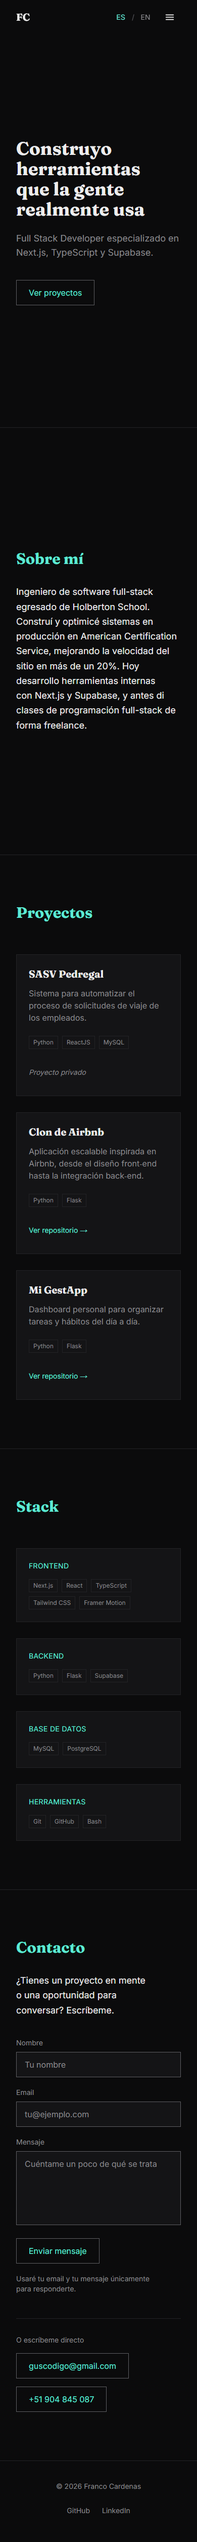
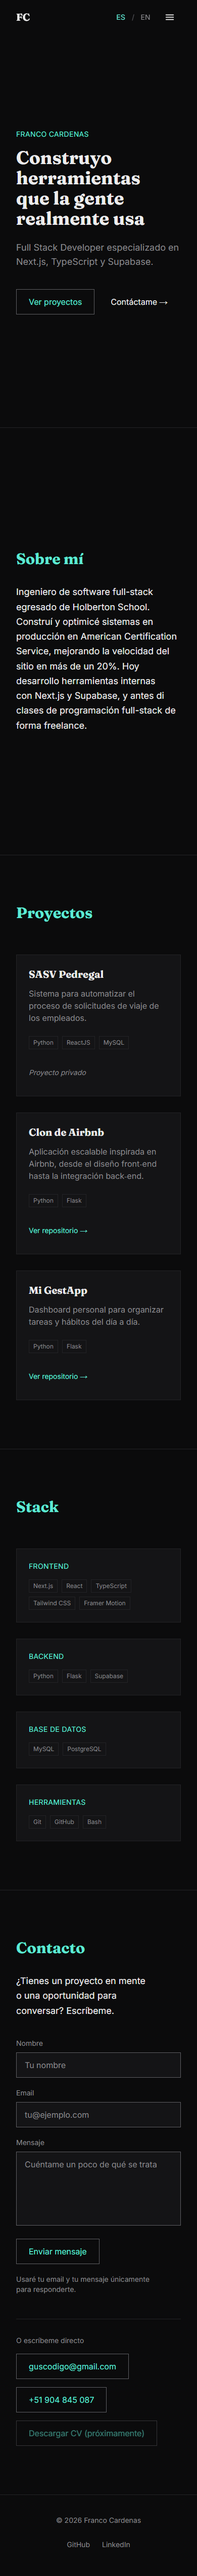
feat: add name and secondary CTA to hero, add CV placeholder to contact
- Show the author name above the hero title
- Add a secondary Get in touch link next to the main hero CTA
- Add a disabled CV download button to the contact section until the CV is ready
- Refresh README screenshots

diff --git a/src/components/sections/Hero.tsx b/src/components/sections/Hero.tsx
@@ -1,5 +1,6 @@
 import { useTranslations } from 'next-intl';
 import { ParallaxLayer } from '@/components/ParallaxLayer';
+import { SITE_NAME } from '@/lib/site';
 
 export function Hero() {
   const t = useTranslations('Hero');
@@ -9,6 +10,12 @@ export function Hero() {
       aria-labelledby="hero-heading"
       className="min-h-screen flex flex-col justify-center px-8 md:px-16 pt-24 pb-16"
     >
+      <ParallaxLayer speed={0.06} className="mb-4">
+        <p className="animate-fade-up motion-reduce:animate-none text-sm uppercase tracking-wide text-accent">
+          {SITE_NAME}
+        </p>
+      </ParallaxLayer>
+
       <ParallaxLayer speed={0.12}>
         <h1
           id="hero-heading"
@@ -25,12 +32,23 @@ export function Hero() {
       </ParallaxLayer>
 
       <ParallaxLayer speed={0.28} className="mt-10">
-        <a
-          href="#projects"
-          className="btn-outline animate-fade-up motion-reduce:animate-none [animation-delay:240ms]"
-        >
-          {t('cta')}
-        </a>
+        <div className="animate-fade-up motion-reduce:animate-none [animation-delay:240ms] flex flex-wrap items-center gap-x-8 gap-y-2">
+          <a href="#projects" className="btn-outline">
+            {t('cta')}
+          </a>
+          <a
+            href="#contact"
+            className="group inline-flex min-h-11 items-center text-foreground hover:text-accent transition-colors"
+          >
+            {t('ctaSecondary')}
+            <span
+              aria-hidden="true"
+              className="ml-1 inline-block transition-transform group-hover:translate-x-1"
+            >
+              →
+            </span>
+          </a>
+        </div>
       </ParallaxLayer>
     </section>
   );

diff --git a/src/components/sections/Contact.tsx b/src/components/sections/Contact.tsx
@@ -220,7 +220,7 @@ export function Contact() {
 
         <div className="mt-12 pt-8 border-t border-border">
           <p className="text-sm text-muted mb-4">{t('orDirect')}</p>
-          <div className="flex flex-col sm:flex-row gap-4">
+          <div className="flex flex-col sm:flex-row sm:flex-wrap gap-4">
             <a
               href={`mailto:${EMAIL}`}
               className="btn-outline"
@@ -233,6 +233,9 @@ export function Contact() {
             >
               {PHONE_DISPLAY}
             </a>
+            <button type="button" disabled className="btn-outline">
+              {t('cv')}
+            </button>
           </div>
         </div>
       </motion.div>
